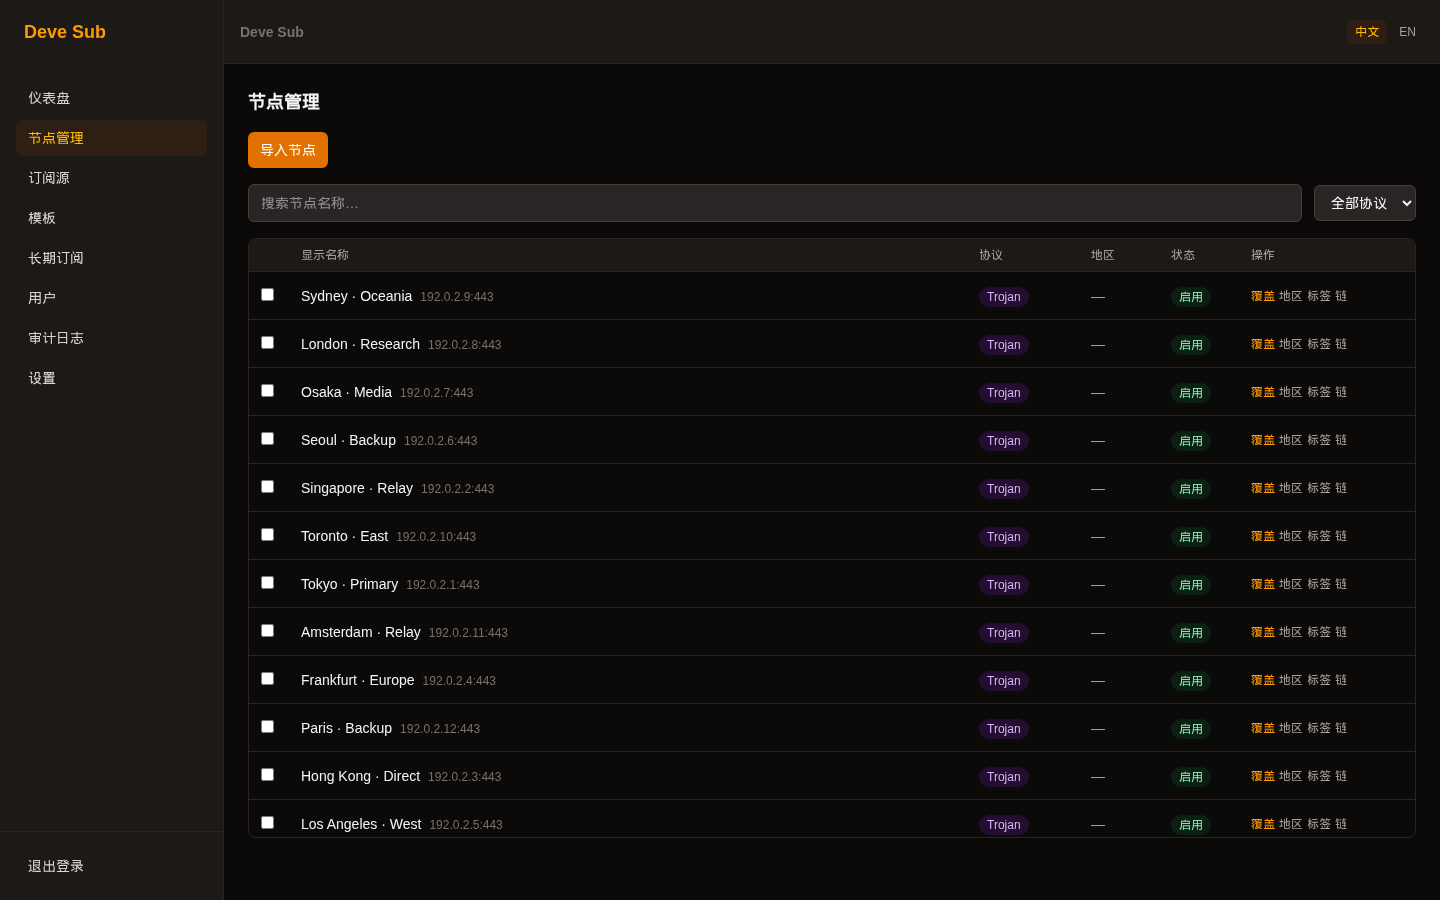
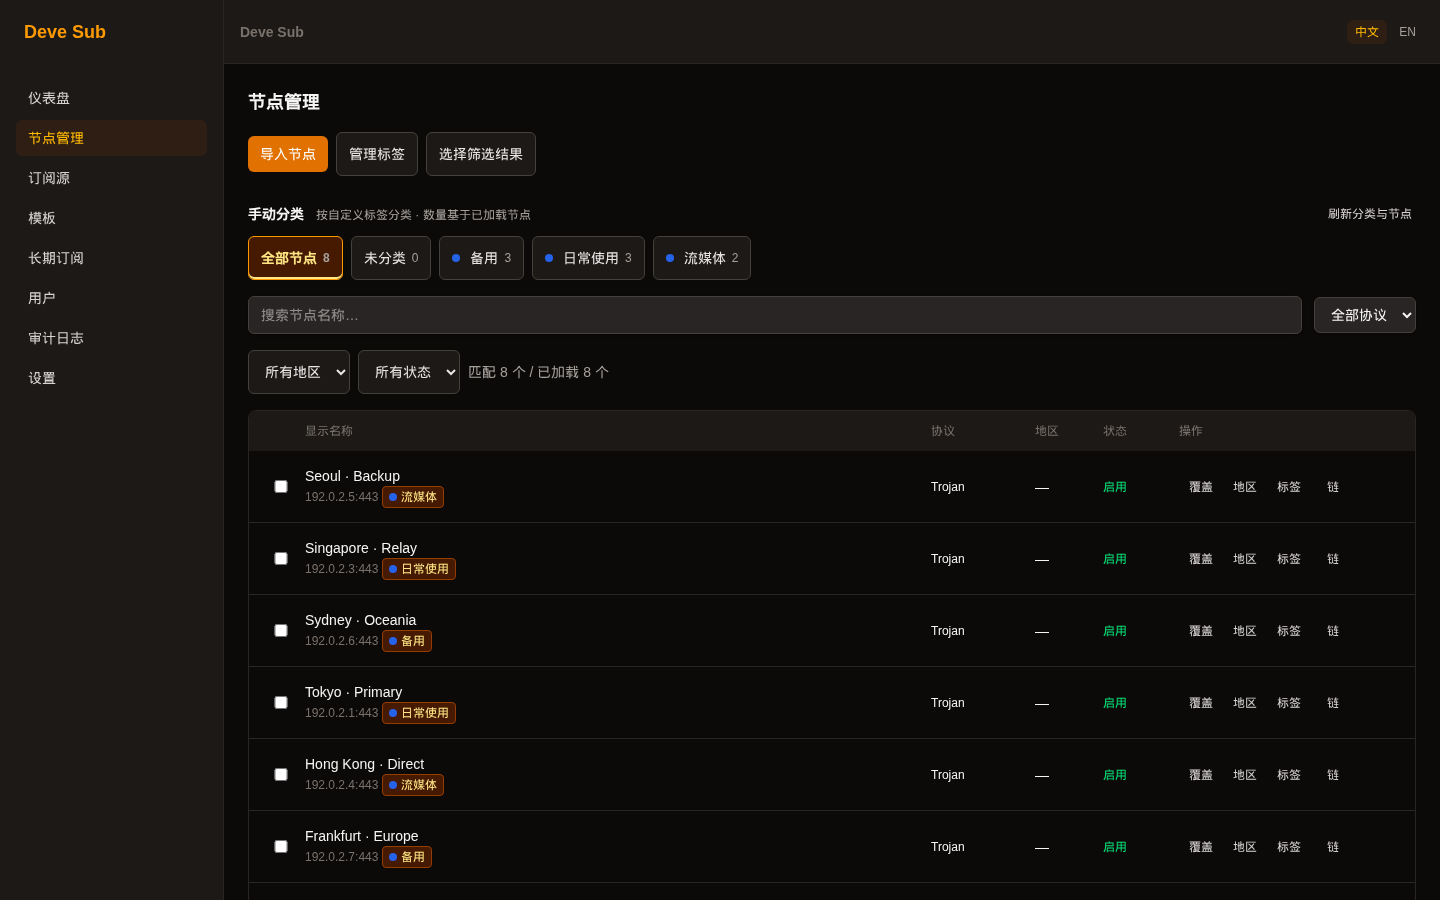
docs: refresh README badges and current UI preview
Capture node management in a real Chromium session using reserved demo addresses; update light and dark previews.

Validation: Playwright capture 1/1; docs 157 cases; cargo fmt/check/clippy; cargo test --all-targets --all-features passed on rerun. Initial full run hit a non-reproduced probe cancellation test failure.

diff --git a/README.md b/README.md
@@ -3,10 +3,10 @@
 <p align="center"><strong>把分散的节点，整理成自己的长期订阅。</strong></p>
 
 <p align="center">
-  <a href="https://github.com/Develata/deve-sub/releases/latest"><img alt="最新版本" src="https://img.shields.io/github/v/release/Develata/deve-sub?display_name=tag&amp;color=b76b35&amp;label=release"></a>
-  <a href="https://github.com/Develata/deve-sub/actions/workflows/ci.yml"><img alt="main CI" src="https://github.com/Develata/deve-sub/actions/workflows/ci.yml/badge.svg?branch=main"></a>
+  <a href="https://github.com/Develata/deve-sub/releases/latest"><img alt="Latest release" src="https://img.shields.io/github/v/release/Develata/deve-sub?display_name=tag&amp;color=b76b35&amp;label=latest%20release"></a>
+  <a href="https://github.com/Develata/deve-sub/actions/workflows/ci.yml"><img alt="CI" src="https://github.com/Develata/deve-sub/actions/workflows/ci.yml/badge.svg?branch=main"></a>
   <a href="LICENSE"><img alt="MIT License" src="https://img.shields.io/badge/license-MIT-657b64"></a>
-  <img alt="Linux amd64 和 arm64" src="https://img.shields.io/badge/Linux-amd64%20%7C%20arm64-64748b">
+  <img alt="Linux amd64 / arm64" src="https://img.shields.io/badge/Linux-amd64%20%7C%20arm64-64748b">
 </p>
 
 <p align="center">
@@ -17,9 +17,9 @@
   <a href="https://github.com/Develata/deve-sub/issues">反馈问题</a>
 </p>
 
-![Deve Sub 节点管理：在统一列表中搜索、筛选、选择和维护节点](assets/readme/nodes-light.png)
+![Deve Sub 节点管理：手动分类、搜索筛选和节点操作](assets/readme/nodes-light.png)
 
-<p align="center"><sub>真实应用截图 · 本地虚构演示数据 · 节点地址使用保留地址段</sub></p>
+<p align="center"><sub>真实浏览器截图 · 本地虚构演示数据 · 节点地址使用保留地址段</sub></p>
 
 Deve Sub 是一个用 **Rust** 构建的自托管代理订阅管理平台。导入机场订阅、分享链接或配置文件，
 在统一节点池中整理、检测和编排，再为不同设备生成长期订阅 URL。
